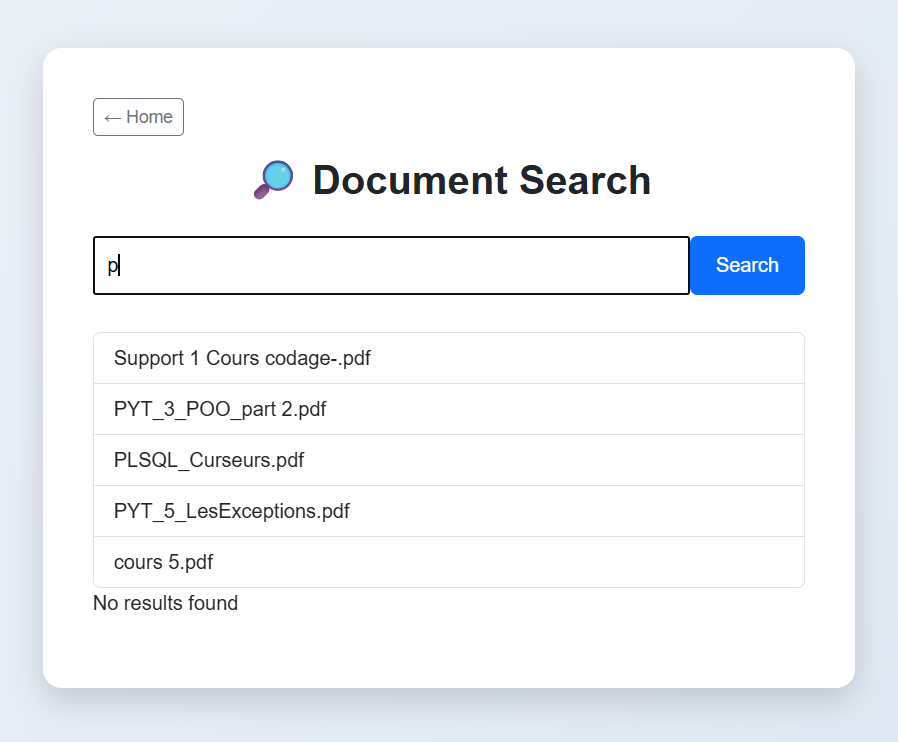
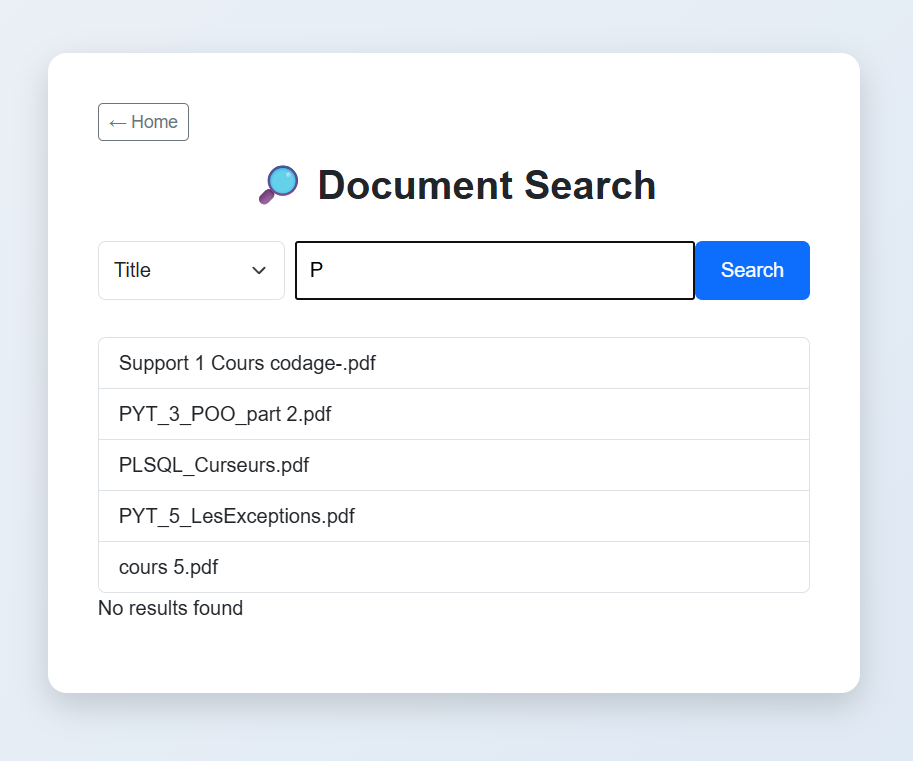
final final

diff --git a/templates/search.html b/templates/search.html
@@ -75,12 +75,21 @@
 
         <h2 class="search-title">🔎 Document Search</h2>
         <form class="search-box" action="/search" method="get">
-            <input type="text" name="q" value="" placeholder="Search documents..." required>
+    
+            <select name="field" class="form-select me-2" style="max-width:150px;">
+                <option value="all">All</option>
+                <option value="title">Title</option>
+                <option value="content">Content</option>
+                <option value="author">Author</option>
+            </select>
+
+            <input type="text" name="q" placeholder="Search documents..." required>
+
             <button class="btn btn-primary" type="submit">Search</button>
         </form>
 
         <ul id="suggestions" class="list-group mt-2"></ul>
-
+            
         {% if docs %}
             {% for doc in docs %}
             <div class="result-card">

diff --git a/app.py b/app.py
@@ -39,7 +39,7 @@ def upload_file():
         #crée un document avec 4 champs
         data = {
             "title": file.filename,
-            "author": "Unknown",
+            "author": "Admin", 
             "content": text,
             "suggest": file.filename,
             "file_path": filepath
@@ -78,10 +78,22 @@ def autocomplete():
 def search():
 
     query = request.args.get("q")
+    field = request.args.get("field")  
     docs = []
 
     if query:
-        solr_url = f"http://localhost:8983/solr/documents/select?q=title:{query}^2 OR content:{query}&fl=*,score&wt=json"
+
+        if field == "title":
+            q_param = f"title:{query}"
+        elif field == "content":
+            q_param = f"content:{query}"
+        elif field == "author":
+            q_param = f"author:{query}"
+        else:
+            q_param = f"title:{query}^2 OR content:{query}"
+
+        solr_url = f"http://localhost:8983/solr/documents/select?q={q_param}&fl=*,score&wt=json"
+
         response = requests.get(solr_url).json()
         docs = response["response"]["docs"]
 

diff --git a/README.md b/README.md
@@ -16,12 +16,19 @@ Une application web pour rechercher et consulter des documents PDF, Word et Exce
 
 - Upload de documents (`PDF`, `DOCX`, `XLSX`) via une interface web.
 - Extraction automatique du contenu texte pour indexation dans **Solr**.
-- Recherche avec pondération (title boosté) et score de pertinence.
+- Indexation des documents dans Apache Solr avec stockage des champs (title, content, file_path, etc.).
+- Recherche textuelle basée sur plusieurs champs (title et content) avec pondération (boost sur le title).
+- Classement des résultats selon le score de pertinence fourni par Solr.
 - Suggestions automatiques de recherche (autocomplete).
 - Visualisation des résultats avec aperçu du contenu et lien pour ouvrir le fichier.
 - Gestion simple des fichiers uploadés depuis le dossier `uploads/`.
 - Création automatique du dossier uploads si nécessaire.
 - Commit automatique dans Solr après chaque upload pour indexation immédiate.
+- Navigation par sélection du champ de recherche (faceted search).
+- Interface de visualisation des résultats avec :
+  - aperçu du contenu extrait
+  - affichage du score
+  - lien permettant d’ouvrir le document original
 
 # Aperçu de l'Autocomplete
 ![Capture de l'application](images/autocomplete.png)
